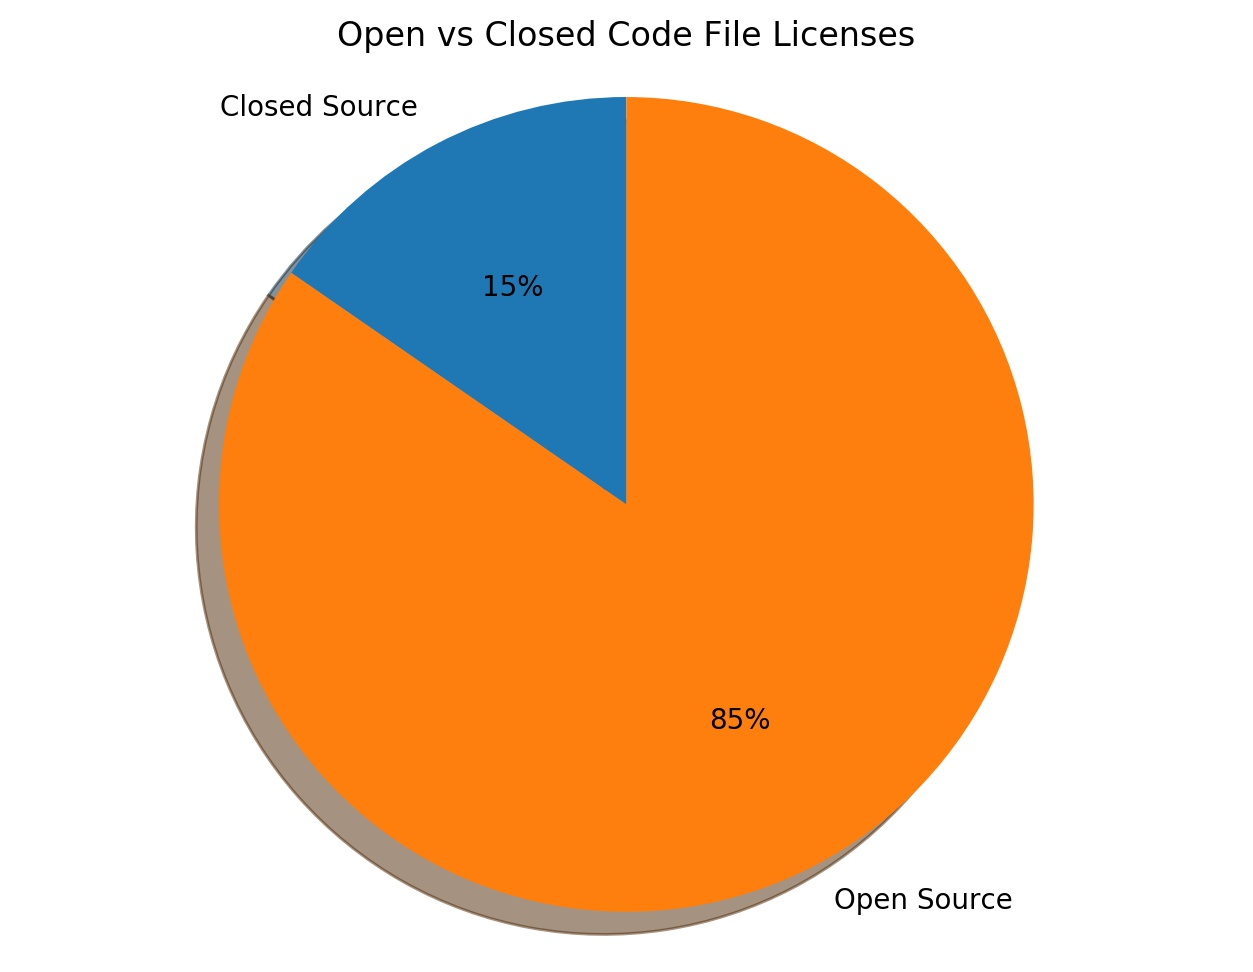
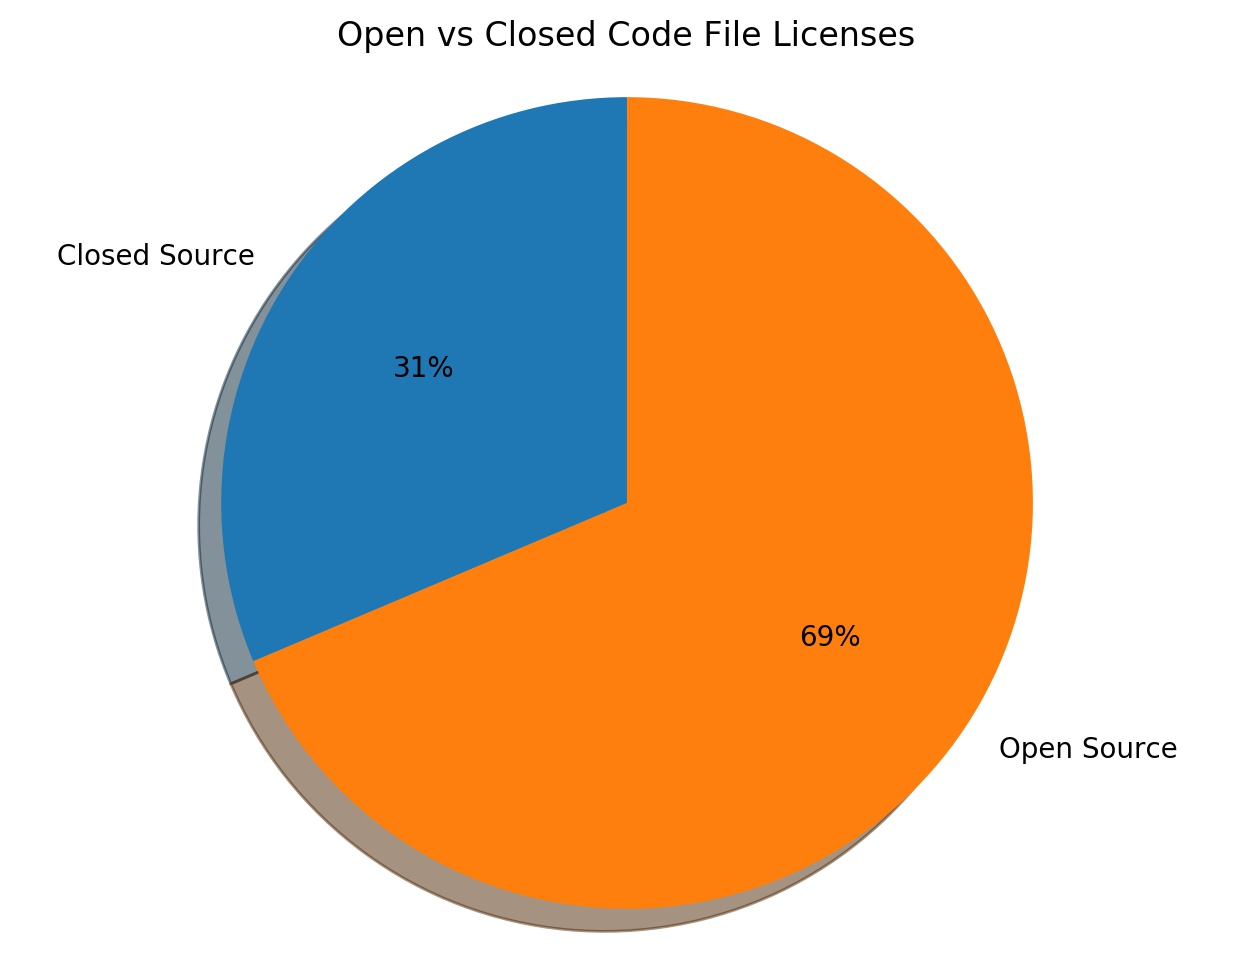
new pie charts

diff --git a/postProcess.py b/postProcess.py
@@ -201,7 +201,7 @@ df.to_csv("LicensesData.csv", index=False)
 
 openSourceTermsCount = 0
 openSourceLicenses = sum([codeLicenses, nonCodeLicenses],[])
-for codeLicense in allLicenses:
+for codeLicense in openSourceLicenses:
 	openSourceTermsCount += int(data[codeLicense]['Code']['count'])
 closedSourceTermsCount = 0
 for codeLicense in confidential:
@@ -216,7 +216,7 @@ createPieGraph(name='Open vs Closed Code File Licenses',
 
 openSourceTermsCount = 0
 openSourceLicenses = sum([codeLicenses, nonCodeLicenses],[])
-for codeLicense in allLicenses:
+for codeLicense in openSourceLicenses:
 	openSourceTermsCount += int(data[codeLicense]['Repositories']['count'])
 closedSourceTermsCount = 0
 for codeLicense in confidential:
@@ -226,6 +226,13 @@ createPieGraph(name='Open vs Closed Repository Licenses',
 				labels=['Open Source', 'Closed Source'],
 				sizes=[openSourceTermsCount, closedSourceTermsCount],
 				title='Open vs Closed Repository Licenses')
+
+createPieGraph(name='With vs Without Modification Allowed', 
+				labels=['Allow Modification', "Don't Allow Modification"],
+				sizes=[62574024, 32289895],
+				title='With vs Without Modification Allowed')
+
+
 
 # # data to plot
 # n_groups = len(codeLicenses)
